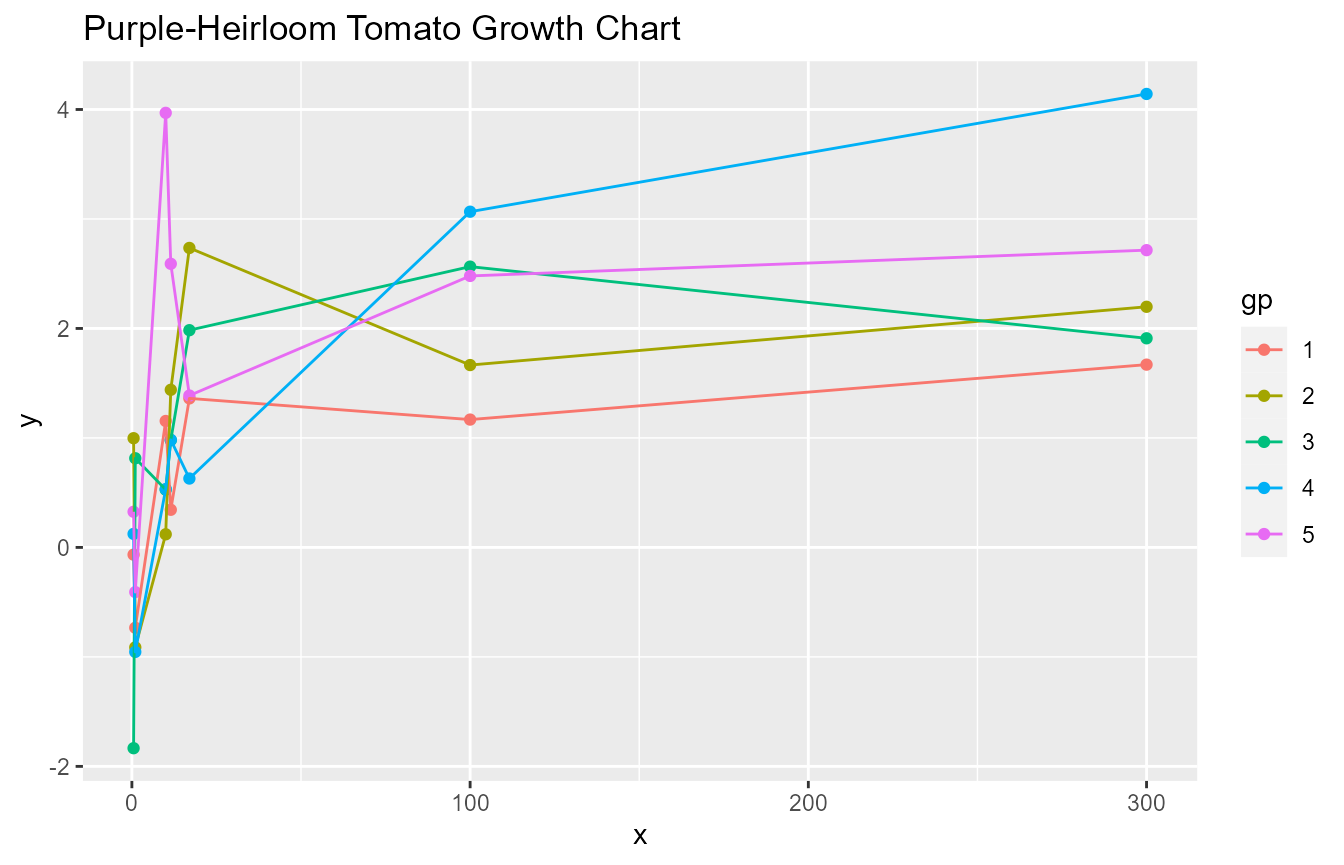
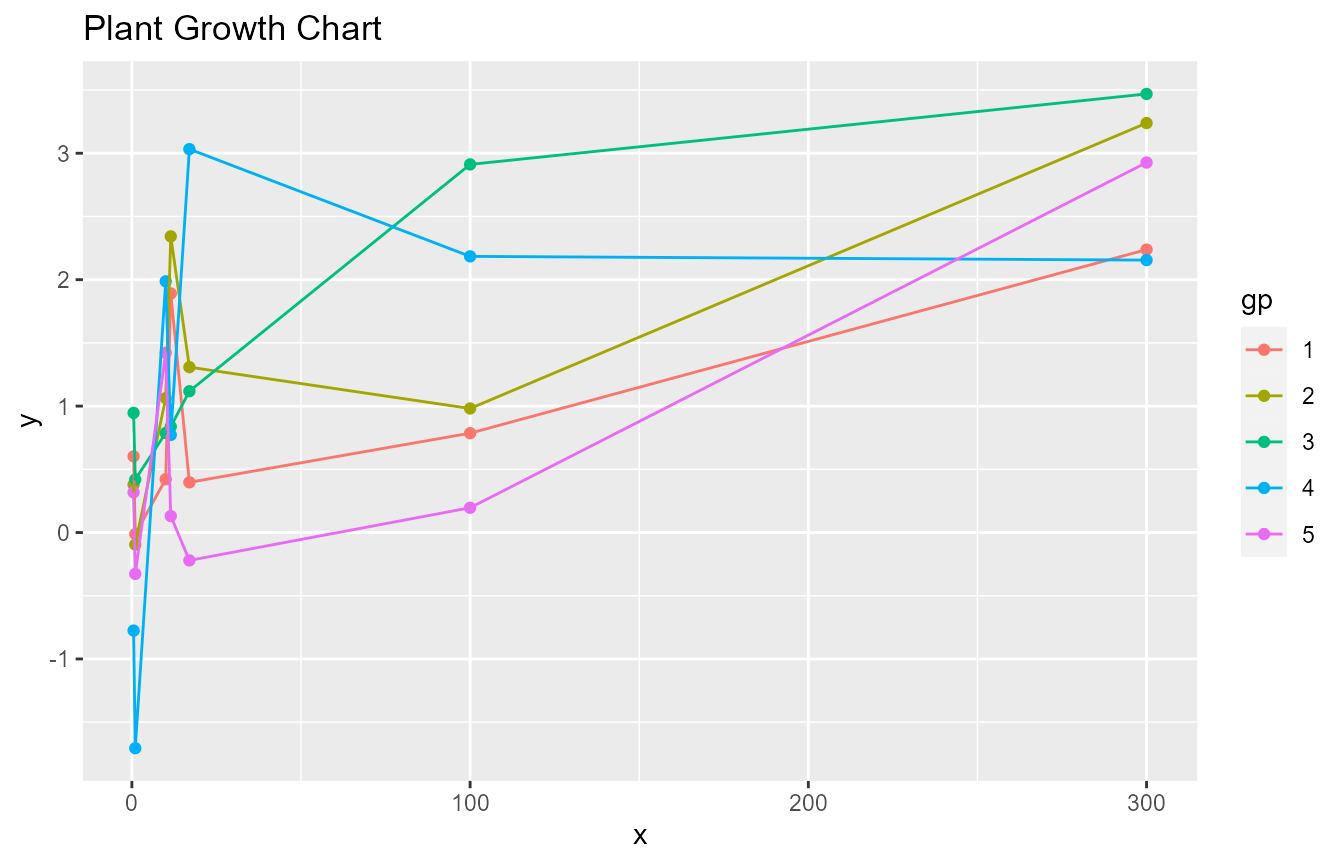
v0.1.6

diff --git a/docs/articles/vignette_mtb_axis.html b/docs/articles/vignette_mtb_axis.html
@@ -26,7 +26,7 @@
     
     <a class="navbar-brand me-2" href="../index.html">mtb</a>
 
-    <small class="nav-text text-muted me-auto" data-bs-toggle="tooltip" data-bs-placement="bottom" title="">0.1.5</small>
+    <small class="nav-text text-muted me-auto" data-bs-toggle="tooltip" data-bs-placement="bottom" title="">0.1.6</small>
 
     
     <button class="navbar-toggler" type="button" data-bs-toggle="collapse" data-bs-target="#navbar" aria-controls="navbar" aria-expanded="false" aria-label="Toggle navigation">
@@ -74,7 +74,7 @@
       <img src="" class="logo" alt=""><h1>vignette_mtb_axis</h1>
                         <h4 data-toc-skip class="author">Y. Hsu</h4>
             
-            <h4 data-toc-skip class="date">2022-01-09</h4>
+            <h4 data-toc-skip class="date">2022-02-04</h4>
       
       <small class="dont-index">Source: <a href="https://github.com/yh202109/mtb/blob/HEAD/vignettes/vignette_mtb_axis.Rmd" class="external-link"><code>vignettes/vignette_mtb_axis.Rmd</code></a></small>
       <div class="d-none name"><code>vignette_mtb_axis.Rmd</code></div>
@@ -87,7 +87,8 @@
 </h2>
 <p>For continuous <span class="math inline">\(x\)</span> values, the common options for the <span class="math inline">\(x\)</span>-axis scale could be either linear or log. Assume that the <span class="math inline">\(x\)</span> vector has a smaller number of distinct values. Some of those <span class="math inline">\(x\)</span> values could be clustered tightly while others are far away from the cluster. In such case, the plot could have an area that is overfilled and have other areas that are underused.</p>
 <p>The function <code><a href="../reference/trans_composition.html">trans_composition()</a></code> yields linear scale for <span class="math inline">\(x\)</span>-axis below a breaking point. All unique <span class="math inline">\(x\)</span> values above the breaking point will be plotted in equal spaces in between. The function <code><a href="../reference/trans_loglinear.html">trans_loglinear()</a></code> is based on an algorithm derived log transformation such that the <span class="math inline">\(x\)</span> values could be spaced out for easier interpreting.</p>
-<p><span style="color: rgba(255,0,0,1); margin: 3px auto 3px auto; font-size:100%">Caution - The use of nonlinear axis scale can be misleading. The use of transformed scales should be clearly noted in the text or on the figure to avoid misleading.</span></p>
+<p><span style="color: rgba(255,0,0,1); margin: 3px auto 3px auto; font-size:100%">Caution - The use of nonlinear axis scale can be DISTORTION and MISLEADING. The use of transformed scales should be **clearly noted** in the text or on the figure to avoid misleading.</span></p>
+<p>These transformations can work with <code><a href="https://ggplot2.tidyverse.org/reference/position_dodge.html" class="external-link">position_dodge()</a></code> and other adjustments.</p>
 </div>
 <div class="section level2">
 <h2 id="how-to-use">How to use<a class="anchor" aria-label="anchor" href="#how-to-use"></a>
@@ -99,23 +100,37 @@
 <span class="va">pdt</span><span class="op">=</span><span class="fu"><a href="https://rdrr.io/r/base/data.frame.html" class="external-link">data.frame</a></span><span class="op">(</span>x<span class="op">=</span><span class="fu"><a href="https://rdrr.io/r/base/rep.html" class="external-link">rep</a></span><span class="op">(</span><span class="fu"><a href="https://rdrr.io/r/base/c.html" class="external-link">c</a></span><span class="op">(</span><span class="fl">0.5</span>, <span class="fl">1</span>, <span class="fl">10</span>,<span class="fl">11.5</span>,<span class="fl">17</span>, <span class="fl">100</span>, <span class="fl">300</span><span class="op">)</span>, each<span class="op">=</span><span class="fl">5</span><span class="op">)</span>, gp<span class="op">=</span><span class="fu"><a href="https://rdrr.io/r/base/factor.html" class="external-link">factor</a></span><span class="op">(</span><span class="fu"><a href="https://rdrr.io/r/base/rep.html" class="external-link">rep</a></span><span class="op">(</span><span class="fu"><a href="https://rdrr.io/r/base/seq.html" class="external-link">seq</a></span><span class="op">(</span><span class="fl">1</span>,<span class="fl">5</span><span class="op">)</span>,<span class="fl">7</span><span class="op">)</span><span class="op">)</span><span class="op">)</span>
 <span class="va">pdt</span><span class="op">$</span><span class="va">y</span><span class="op">=</span><span class="fu"><a href="https://rdrr.io/r/base/Log.html" class="external-link">log10</a></span><span class="op">(</span><span class="va">pdt</span><span class="op">$</span><span class="va">x</span><span class="op">)</span><span class="op">+</span><span class="fu"><a href="https://rdrr.io/r/stats/Normal.html" class="external-link">rnorm</a></span><span class="op">(</span><span class="fu"><a href="https://rdrr.io/r/base/length.html" class="external-link">length</a></span><span class="op">(</span><span class="va">pdt</span><span class="op">$</span><span class="va">x</span><span class="op">)</span><span class="op">)</span>
 <span class="va">p</span><span class="op">=</span><span class="fu"><a href="https://ggplot2.tidyverse.org/reference/ggplot.html" class="external-link">ggplot</a></span><span class="op">(</span><span class="va">pdt</span>, <span class="fu"><a href="https://ggplot2.tidyverse.org/reference/aes.html" class="external-link">aes</a></span><span class="op">(</span>x<span class="op">=</span><span class="va">x</span>, y<span class="op">=</span><span class="va">y</span>, group<span class="op">=</span><span class="va">gp</span>, color<span class="op">=</span><span class="va">gp</span><span class="op">)</span><span class="op">)</span><span class="op">+</span><span class="fu"><a href="https://ggplot2.tidyverse.org/reference/geom_point.html" class="external-link">geom_point</a></span><span class="op">(</span><span class="op">)</span><span class="op">+</span><span class="fu"><a href="https://ggplot2.tidyverse.org/reference/geom_path.html" class="external-link">geom_line</a></span><span class="op">(</span><span class="op">)</span><span class="op">+</span>
-  <span class="fu"><a href="https://ggplot2.tidyverse.org/reference/labs.html" class="external-link">ggtitle</a></span><span class="op">(</span><span class="st">"Purple-Heirloom Tomato Growth Chart"</span><span class="op">)</span>
+  <span class="fu"><a href="https://ggplot2.tidyverse.org/reference/labs.html" class="external-link">ggtitle</a></span><span class="op">(</span><span class="st">"Plant Growth Chart"</span><span class="op">)</span>
 <span class="va">p</span></code></pre></div>
 <p><img src="vignette_mtb_axis_files/figure-html/unnamed-chunk-2-1.png" width="672" style="display: block; margin: auto;"></p>
-<p>Below is an example that shows how to use <code><a href="../reference/trans_composition.html">trans_composition()</a></code> with break point set as 50. Distinct <span class="math inline">\(x\)</span> values above 50 are plotted with equal spaces in between.</p>
+<p>Below is an example that shows how to use <code><a href="../reference/trans_composition.html">trans_composition()</a></code> with break point set as 50. Distinct <span class="math inline">\(x\)</span> values above 50 are plotted with equal spaces in between. While using non-linear transformed X-axis, it gives a distort sense regarding distances between the last two measured time points. In addition to that, the long distance between the last three <span class="math inline">\(x\)</span> values makes the linear connections between observations less certain, but the connections are still needed to identify individual groups. The example below used dashed line above x=17 to have clearer indication of the change of scales.</p>
 <div class="sourceCode" id="cb2"><pre class="downlit sourceCode r">
-<code class="sourceCode R"><span class="va">t</span><span class="op">=</span><span class="fu"><a href="../reference/trans_composition.html">trans_composition</a></span><span class="op">(</span><span class="va">pdt</span><span class="op">$</span><span class="va">x</span>, nb<span class="op">=</span><span class="fl">30</span>, brk<span class="op">=</span><span class="fl">50</span>, dab<span class="op">=</span><span class="fl">2</span>, dgrd<span class="op">=</span><span class="fl">1</span>, dgrd2<span class="op">=</span><span class="fl">0.2</span><span class="op">)</span> 
-<span class="va">p</span><span class="op">+</span> <span class="fu"><a href="https://ggplot2.tidyverse.org/reference/scale_continuous.html" class="external-link">scale_x_continuous</a></span><span class="op">(</span>trans<span class="op">=</span><span class="va">t</span><span class="op">)</span><span class="op">+</span> <span class="fu"><a href="https://ggplot2.tidyverse.org/reference/geom_abline.html" class="external-link">geom_vline</a></span><span class="op">(</span>xintercept<span class="op">=</span><span class="va">t</span><span class="op">$</span><span class="va">brk</span>, lwd<span class="op">=</span><span class="fl">6</span>, alpha<span class="op">=</span><span class="fl">0.5</span>, color<span class="op">=</span><span class="st">'lightgray'</span><span class="op">)</span><span class="op">+</span> <span class="fu"><a href="https://ggplot2.tidyverse.org/reference/geom_text.html" class="external-link">geom_text</a></span><span class="op">(</span> x<span class="op">=</span><span class="op">-</span><span class="cn">Inf</span>, y<span class="op">=</span><span class="cn">Inf</span>, hjust<span class="op">=</span><span class="fl">0</span>, vjust<span class="op">=</span><span class="fl">1</span>, label<span class="op">=</span><span class="st">'Caution: X-axis scale is not linear above 50'</span>, color<span class="op">=</span><span class="st">'darkred'</span><span class="op">)</span></code></pre></div>
-<p><img src="vignette_mtb_axis_files/figure-html/unnamed-chunk-3-1.png" width="672" style="display: block; margin: auto;"> Below is another example that shows how to use <code><a href="../reference/trans_composition.html">trans_composition()</a></code> with break point set as 0. In this example, all <span class="math inline">\(x\)</span> values are plotted with equal spaces in between.</p>
+<code class="sourceCode R"><span class="va">t</span><span class="op">=</span><span class="fu"><a href="../reference/trans_composition.html">trans_composition</a></span><span class="op">(</span><span class="va">pdt</span><span class="op">$</span><span class="va">x</span>, nb<span class="op">=</span><span class="fl">30</span>, brk<span class="op">=</span><span class="fl">50</span>, dab<span class="op">=</span><span class="fl">1.5</span>, dgrd<span class="op">=</span><span class="fl">1</span>, dgrd2<span class="op">=</span><span class="fl">0.5</span><span class="op">)</span> 
+<span class="va">p2</span><span class="op">=</span><span class="fu"><a href="https://ggplot2.tidyverse.org/reference/ggplot.html" class="external-link">ggplot</a></span><span class="op">(</span><span class="va">pdt</span>, <span class="fu"><a href="https://ggplot2.tidyverse.org/reference/aes.html" class="external-link">aes</a></span><span class="op">(</span>x<span class="op">=</span><span class="va">x</span>, y<span class="op">=</span><span class="va">y</span>, group<span class="op">=</span><span class="va">gp</span>, color<span class="op">=</span><span class="va">gp</span><span class="op">)</span><span class="op">)</span><span class="op">+</span><span class="fu"><a href="https://ggplot2.tidyverse.org/reference/geom_point.html" class="external-link">geom_point</a></span><span class="op">(</span><span class="op">)</span><span class="op">+</span>
+  <span class="fu"><a href="https://ggplot2.tidyverse.org/reference/geom_path.html" class="external-link">geom_line</a></span><span class="op">(</span><span class="va">pdt</span><span class="op">[</span><span class="va">pdt</span><span class="op">$</span><span class="va">x</span><span class="op">&lt;=</span><span class="va">t</span><span class="op">$</span><span class="va">brk</span>,<span class="op">]</span>, mapping<span class="op">=</span><span class="fu"><a href="https://ggplot2.tidyverse.org/reference/aes.html" class="external-link">aes</a></span><span class="op">(</span>x<span class="op">=</span><span class="va">x</span>, y<span class="op">=</span><span class="va">y</span>, group<span class="op">=</span><span class="va">gp</span>, color<span class="op">=</span><span class="va">gp</span><span class="op">)</span><span class="op">)</span><span class="op">+</span>
+  <span class="fu"><a href="https://ggplot2.tidyverse.org/reference/geom_path.html" class="external-link">geom_line</a></span><span class="op">(</span><span class="va">pdt</span><span class="op">[</span><span class="va">pdt</span><span class="op">$</span><span class="va">x</span><span class="op">&gt;=</span><span class="fu"><a href="https://rdrr.io/r/base/Extremes.html" class="external-link">max</a></span><span class="op">(</span><span class="va">pdt</span><span class="op">$</span><span class="va">x</span><span class="op">&lt;=</span><span class="va">t</span><span class="op">$</span><span class="va">brk</span><span class="op">)</span>,<span class="op">]</span>, mapping<span class="op">=</span><span class="fu"><a href="https://ggplot2.tidyverse.org/reference/aes.html" class="external-link">aes</a></span><span class="op">(</span>x<span class="op">=</span><span class="va">x</span>, y<span class="op">=</span><span class="va">y</span>, group<span class="op">=</span><span class="va">gp</span>, color<span class="op">=</span><span class="va">gp</span><span class="op">)</span>, lty<span class="op">=</span><span class="fl">2</span><span class="op">)</span><span class="op">+</span>
+  <span class="fu"><a href="https://ggplot2.tidyverse.org/reference/labs.html" class="external-link">ggtitle</a></span><span class="op">(</span><span class="st">"Plant Growth Chart"</span><span class="op">)</span>
+<span class="va">p2</span><span class="op">+</span> <span class="fu"><a href="https://ggplot2.tidyverse.org/reference/scale_continuous.html" class="external-link">scale_x_continuous</a></span><span class="op">(</span>trans<span class="op">=</span><span class="va">t</span><span class="op">)</span><span class="op">+</span> <span class="fu"><a href="https://ggplot2.tidyverse.org/reference/geom_abline.html" class="external-link">geom_vline</a></span><span class="op">(</span>xintercept<span class="op">=</span><span class="va">t</span><span class="op">$</span><span class="va">brk</span>, lwd<span class="op">=</span><span class="fl">6</span>, alpha<span class="op">=</span><span class="fl">0.7</span>, color<span class="op">=</span><span class="st">'lightgray'</span><span class="op">)</span><span class="op">+</span> <span class="fu"><a href="https://ggplot2.tidyverse.org/reference/geom_text.html" class="external-link">geom_text</a></span><span class="op">(</span> x<span class="op">=</span><span class="op">-</span><span class="cn">Inf</span>, y<span class="op">=</span><span class="cn">Inf</span>, hjust<span class="op">=</span><span class="fl">0</span>, vjust<span class="op">=</span><span class="fl">1</span>, label<span class="op">=</span><span class="st">'Caution: X-axis scale is not linear above 17'</span>, color<span class="op">=</span><span class="st">'darkred'</span><span class="op">)</span></code></pre></div>
+<p><img src="vignette_mtb_axis_files/figure-html/unnamed-chunk-3-1.png" width="672" style="display: block; margin: auto;"></p>
+<p>Below is another example that shows how to use <code><a href="../reference/trans_composition.html">trans_composition()</a></code> with break point set as 0. In this example, all <span class="math inline">\(x\)</span> values are plotted with equal spaces in between.</p>
 <div class="sourceCode" id="cb3"><pre class="downlit sourceCode r">
 <code class="sourceCode R"><span class="va">t</span><span class="op">=</span><span class="fu"><a href="../reference/trans_composition.html">trans_composition</a></span><span class="op">(</span><span class="va">pdt</span><span class="op">$</span><span class="va">x</span>, nb<span class="op">=</span><span class="fl">30</span>, brk<span class="op">=</span><span class="fl">0</span>, dab<span class="op">=</span><span class="fl">2</span>, dgrd<span class="op">=</span><span class="fl">1</span>, dgrd2<span class="op">=</span><span class="fl">1</span><span class="op">)</span> 
-<span class="va">p</span><span class="op">+</span> <span class="fu"><a href="https://ggplot2.tidyverse.org/reference/scale_continuous.html" class="external-link">scale_x_continuous</a></span><span class="op">(</span>trans<span class="op">=</span><span class="va">t</span><span class="op">)</span><span class="op">+</span><span class="fu"><a href="https://ggplot2.tidyverse.org/reference/geom_text.html" class="external-link">geom_text</a></span><span class="op">(</span> x<span class="op">=</span><span class="op">-</span><span class="cn">Inf</span>, y<span class="op">=</span><span class="cn">Inf</span>, hjust<span class="op">=</span><span class="fl">0</span>, vjust<span class="op">=</span><span class="fl">1</span>, label<span class="op">=</span><span class="st">'Caution: X-axis scale is not linear'</span>, color<span class="op">=</span><span class="st">'darkred'</span><span class="op">)</span></code></pre></div>
-<p><img src="vignette_mtb_axis_files/figure-html/unnamed-chunk-4-1.png" width="672" style="display: block; margin: auto;"> Below is an example that shows how to use <code><a href="../reference/trans_loglinear.html">trans_loglinear()</a></code>. The <code><a href="../reference/trans_loglinear.html">trans_loglinear()</a></code> transformation increases spaces between smaller x values and that might be only appropriate in certain situations.</p>
+<span class="va">p3</span><span class="op">=</span><span class="fu"><a href="https://ggplot2.tidyverse.org/reference/ggplot.html" class="external-link">ggplot</a></span><span class="op">(</span><span class="va">pdt</span>, <span class="fu"><a href="https://ggplot2.tidyverse.org/reference/aes.html" class="external-link">aes</a></span><span class="op">(</span>x<span class="op">=</span><span class="va">x</span>, y<span class="op">=</span><span class="va">y</span>, group<span class="op">=</span><span class="va">gp</span>, color<span class="op">=</span><span class="va">gp</span><span class="op">)</span><span class="op">)</span><span class="op">+</span><span class="fu"><a href="https://ggplot2.tidyverse.org/reference/geom_point.html" class="external-link">geom_point</a></span><span class="op">(</span><span class="op">)</span><span class="op">+</span>
+  <span class="fu"><a href="https://ggplot2.tidyverse.org/reference/geom_path.html" class="external-link">geom_line</a></span><span class="op">(</span>lty<span class="op">=</span><span class="fl">2</span><span class="op">)</span><span class="op">+</span> <span class="fu"><a href="https://ggplot2.tidyverse.org/reference/labs.html" class="external-link">ggtitle</a></span><span class="op">(</span><span class="st">"Plant Growth Chart"</span><span class="op">)</span>
+<span class="va">p3</span><span class="op">+</span> <span class="fu"><a href="https://ggplot2.tidyverse.org/reference/scale_continuous.html" class="external-link">scale_x_continuous</a></span><span class="op">(</span>trans<span class="op">=</span><span class="va">t</span><span class="op">)</span><span class="op">+</span><span class="fu"><a href="https://ggplot2.tidyverse.org/reference/geom_text.html" class="external-link">geom_text</a></span><span class="op">(</span> x<span class="op">=</span><span class="op">-</span><span class="cn">Inf</span>, y<span class="op">=</span><span class="cn">Inf</span>, hjust<span class="op">=</span><span class="fl">0</span>, vjust<span class="op">=</span><span class="fl">1</span>, label<span class="op">=</span><span class="st">'Caution: X-axis scale is not linear'</span>, color<span class="op">=</span><span class="st">'darkred'</span><span class="op">)</span></code></pre></div>
+<p><img src="vignette_mtb_axis_files/figure-html/unnamed-chunk-4-1.png" width="672" style="display: block; margin: auto;"></p>
+<div class="section level3">
+<h3 id="danger-zone---please-use-responsibly">Danger Zone - Please Use Responsibly<a class="anchor" aria-label="anchor" href="#danger-zone---please-use-responsibly"></a>
+</h3>
+<p>Below is an example that shows how to use <code><a href="../reference/trans_loglinear.html">trans_loglinear()</a></code>. The <code><a href="../reference/trans_loglinear.html">trans_loglinear()</a></code> transformation increases spaces between smaller x values and that might be only appropriate in certain situations.</p>
 <div class="sourceCode" id="cb4"><pre class="downlit sourceCode r">
 <code class="sourceCode R"><span class="va">t</span><span class="op">=</span><span class="fu"><a href="../reference/trans_loglinear.html">trans_loglinear</a></span><span class="op">(</span><span class="va">pdt</span><span class="op">$</span><span class="va">x</span>, mindist<span class="op">=</span><span class="fl">0.03</span><span class="op">)</span> 
-<span class="va">p</span><span class="op">+</span> <span class="fu"><a href="https://ggplot2.tidyverse.org/reference/scale_continuous.html" class="external-link">scale_x_continuous</a></span><span class="op">(</span>trans<span class="op">=</span><span class="va">t</span><span class="op">)</span><span class="op">+</span><span class="fu"><a href="https://ggplot2.tidyverse.org/reference/geom_text.html" class="external-link">geom_text</a></span><span class="op">(</span> x<span class="op">=</span><span class="op">-</span><span class="cn">Inf</span>, y<span class="op">=</span><span class="cn">Inf</span>, hjust<span class="op">=</span><span class="fl">0</span>, vjust<span class="op">=</span><span class="fl">1</span>, label<span class="op">=</span><span class="st">'Caution: X-axis scale is not linear'</span>, color<span class="op">=</span><span class="st">'darkred'</span><span class="op">)</span></code></pre></div>
+<span class="va">p4</span><span class="op">=</span><span class="fu"><a href="https://ggplot2.tidyverse.org/reference/ggplot.html" class="external-link">ggplot</a></span><span class="op">(</span><span class="va">pdt</span>, <span class="fu"><a href="https://ggplot2.tidyverse.org/reference/aes.html" class="external-link">aes</a></span><span class="op">(</span>x<span class="op">=</span><span class="va">x</span>, y<span class="op">=</span><span class="va">y</span>, group<span class="op">=</span><span class="va">gp</span>, color<span class="op">=</span><span class="va">gp</span><span class="op">)</span><span class="op">)</span><span class="op">+</span><span class="fu"><a href="https://ggplot2.tidyverse.org/reference/geom_point.html" class="external-link">geom_point</a></span><span class="op">(</span><span class="op">)</span><span class="op">+</span>
+  <span class="fu"><a href="https://ggplot2.tidyverse.org/reference/geom_path.html" class="external-link">geom_line</a></span><span class="op">(</span>lty<span class="op">=</span><span class="fl">3</span><span class="op">)</span><span class="op">+</span> <span class="fu"><a href="https://ggplot2.tidyverse.org/reference/labs.html" class="external-link">ggtitle</a></span><span class="op">(</span><span class="st">"Plant Growth Chart"</span><span class="op">)</span>
+<span class="va">p4</span><span class="op">+</span> <span class="fu"><a href="https://ggplot2.tidyverse.org/reference/scale_continuous.html" class="external-link">scale_x_continuous</a></span><span class="op">(</span>trans<span class="op">=</span><span class="va">t</span><span class="op">)</span><span class="op">+</span><span class="fu"><a href="https://ggplot2.tidyverse.org/reference/geom_text.html" class="external-link">geom_text</a></span><span class="op">(</span> x<span class="op">=</span><span class="op">-</span><span class="cn">Inf</span>, y<span class="op">=</span><span class="cn">Inf</span>, hjust<span class="op">=</span><span class="fl">0</span>, vjust<span class="op">=</span><span class="fl">1</span>, label<span class="op">=</span><span class="st">'Caution: X-axis scale is not linear'</span>, color<span class="op">=</span><span class="st">'red'</span><span class="op">)</span></code></pre></div>
 <p><img src="vignette_mtb_axis_files/figure-html/unnamed-chunk-5-1.png" width="672" style="display: block; margin: auto;"></p>
-<p>These transformations can work with <code><a href="https://ggplot2.tidyverse.org/reference/position_dodge.html" class="external-link">position_dodge()</a></code> and other adjustments.</p>
+<p>In some line plots, a straight line between two points is used to indicate that these two points are observations corresponding to the same group. Those straight lines are not necessarily indicate or hint linear trends between points. Also note that, for plots based on log scales, a straight line on a log-scale plot is a convex curve on a linear-scale plot.</p>
+</div>
 </div>
   </main><aside class="col-md-3"><nav id="toc"><h2>On this page</h2>
     </nav></aside>

diff --git a/docs/news/index.html b/docs/news/index.html
@@ -10,7 +10,7 @@
     
     <a class="navbar-brand me-2" href="../index.html">mtb</a>
 
-    <small class="nav-text text-muted me-auto" data-bs-toggle="tooltip" data-bs-placement="bottom" title="">0.1.5</small>
+    <small class="nav-text text-muted me-auto" data-bs-toggle="tooltip" data-bs-placement="bottom" title="">0.1.6</small>
 
     
     <button class="navbar-toggler" type="button" data-bs-toggle="collapse" data-bs-target="#navbar" aria-controls="navbar" aria-expanded="false" aria-label="Toggle navigation">
@@ -54,10 +54,27 @@
     </div>
 
     <div class="section level2">
-<h2 class="pkg-version" data-toc-text="0.1.5" id="mtb-015">mtb 0.1.5<a class="anchor" aria-label="anchor" href="#mtb-015"></a></h2>
+<h2 class="pkg-version" data-toc-text="0.1.6" id="mtb-016-commit-tba">mtb 0.1.6 (commit <code>TBA</code>)<a class="anchor" aria-label="anchor" href="#mtb-016-commit-tba"></a></h2>
+<div class="section level3">
+<h3 id="major-changes-0-1-6">Major changes<a class="anchor" aria-label="anchor" href="#major-changes-0-1-6"></a></h3>
+<ul><li>axis - add demo to change line type in line plots with trans axis</li>
+<li>axis - add vignette to explain</li>
+</ul></div>
+</div>
+    <div class="section level2">
+<h2 class="pkg-version" data-toc-text="0.1.5" id="mtb-015-commit-5a99717">mtb 0.1.5 (commit <code>5a99717</code>)<a class="anchor" aria-label="anchor" href="#mtb-015-commit-5a99717"></a></h2>
 <div class="section level3">
 <h3 id="major-changes-0-1-5">Major changes<a class="anchor" aria-label="anchor" href="#major-changes-0-1-5"></a></h3>
-</div>
+<ul><li>pkg - Add site docs using <code>pkgdown</code>
+</li>
+<li>axis - Add loglinear transformation</li>
+<li>axis - Fix max unique values</li>
+<li>axis - Fix min loglinear value</li>
+<li>time - add event plot</li>
+<li>time - add compact option</li>
+<li>time - add end of interval options</li>
+<li>time - add color column</li>
+</ul></div>
 </div>
     <div class="section level2">
 <h2 class="pkg-version" data-toc-text="0.1.1" id="mtb-011-commit-42e8171">mtb 0.1.1 (commit <code>42e8171</code>)<a class="anchor" aria-label="anchor" href="#mtb-011-commit-42e8171"></a></h2><p class="text-muted">CRAN release: 2021-11-16</p>

diff --git a/docs/authors.html b/docs/authors.html
@@ -10,7 +10,7 @@
     
     <a class="navbar-brand me-2" href="index.html">mtb</a>
 
-    <small class="nav-text text-muted me-auto" data-bs-toggle="tooltip" data-bs-placement="bottom" title="">0.1.5</small>
+    <small class="nav-text text-muted me-auto" data-bs-toggle="tooltip" data-bs-placement="bottom" title="">0.1.6</small>
 
     
     <button class="navbar-toggler" type="button" data-bs-toggle="collapse" data-bs-target="#navbar" aria-controls="navbar" aria-expanded="false" aria-label="Toggle navigation">
@@ -67,13 +67,13 @@
 
       <p>Hsu Y (2022).
 <em>mtb: Toolkit for Assisting Kitchen and Garden Projects</em>.
-R package version 0.1.5, <a href="https://github.com/yh202109/mtb" class="external-link">https://github.com/yh202109/mtb</a>. 
+R package version 0.1.6, <a href="https://github.com/yh202109/mtb" class="external-link">https://github.com/yh202109/mtb</a>. 
 </p>
       <pre>@Manual{,
   title = {mtb: Toolkit for Assisting Kitchen and Garden Projects},
   author = {Y Hsu},
   year = {2022},
-  note = {R package version 0.1.5},
+  note = {R package version 0.1.6},
   url = {https://github.com/yh202109/mtb},
 }</pre>
     </div>

diff --git a/docs/articles/vignette_mtb_timerelated.html b/docs/articles/vignette_mtb_timerelated.html
@@ -26,7 +26,7 @@
     
     <a class="navbar-brand me-2" href="../index.html">mtb</a>
 
-    <small class="nav-text text-muted me-auto" data-bs-toggle="tooltip" data-bs-placement="bottom" title="">0.1.5</small>
+    <small class="nav-text text-muted me-auto" data-bs-toggle="tooltip" data-bs-placement="bottom" title="">0.1.6</small>
 
     
     <button class="navbar-toggler" type="button" data-bs-toggle="collapse" data-bs-target="#navbar" aria-controls="navbar" aria-expanded="false" aria-label="Toggle navigation">
@@ -74,7 +74,7 @@
       <img src="" class="logo" alt=""><h1>vignette_mtb_time_related</h1>
                         <h4 data-toc-skip class="author">Y. Hsu</h4>
             
-            <h4 data-toc-skip class="date">2022-01-09</h4>
+            <h4 data-toc-skip class="date">2022-02-04</h4>
       
       <small class="dont-index">Source: <a href="https://github.com/yh202109/mtb/blob/HEAD/vignettes/vignette_mtb_timerelated.Rmd" class="external-link"><code>vignettes/vignette_mtb_timerelated.Rmd</code></a></small>
       <div class="d-none name"><code>vignette_mtb_timerelated.Rmd</code></div>

diff --git a/docs/articles/vignette_mtb_color.html b/docs/articles/vignette_mtb_color.html
@@ -26,7 +26,7 @@
     
     <a class="navbar-brand me-2" href="../index.html">mtb</a>
 
-    <small class="nav-text text-muted me-auto" data-bs-toggle="tooltip" data-bs-placement="bottom" title="">0.1.5</small>
+    <small class="nav-text text-muted me-auto" data-bs-toggle="tooltip" data-bs-placement="bottom" title="">0.1.6</small>
 
     
     <button class="navbar-toggler" type="button" data-bs-toggle="collapse" data-bs-target="#navbar" aria-controls="navbar" aria-expanded="false" aria-label="Toggle navigation">
@@ -74,7 +74,7 @@
       <img src="" class="logo" alt=""><h1>vignette_mtb_color</h1>
                         <h4 data-toc-skip class="author">Y. Hsu</h4>
             
-            <h4 data-toc-skip class="date">2022-01-09</h4>
+            <h4 data-toc-skip class="date">2022-02-04</h4>
       
       <small class="dont-index">Source: <a href="https://github.com/yh202109/mtb/blob/HEAD/vignettes/vignette_mtb_color.Rmd" class="external-link"><code>vignettes/vignette_mtb_color.Rmd</code></a></small>
       <div class="d-none name"><code>vignette_mtb_color.Rmd</code></div>

diff --git a/docs/articles/vignette_mtb_md.html b/docs/articles/vignette_mtb_md.html
@@ -26,7 +26,7 @@
     
     <a class="navbar-brand me-2" href="../index.html">mtb</a>
 
-    <small class="nav-text text-muted me-auto" data-bs-toggle="tooltip" data-bs-placement="bottom" title="">0.1.5</small>
+    <small class="nav-text text-muted me-auto" data-bs-toggle="tooltip" data-bs-placement="bottom" title="">0.1.6</small>
 
     
     <button class="navbar-toggler" type="button" data-bs-toggle="collapse" data-bs-target="#navbar" aria-controls="navbar" aria-expanded="false" aria-label="Toggle navigation">
@@ -74,7 +74,7 @@
       <img src="" class="logo" alt=""><h1>vignette_mtb_markdown</h1>
                         <h4 data-toc-skip class="author">Y. Hsu</h4>
             
-            <h4 data-toc-skip class="date">2022-01-09</h4>
+            <h4 data-toc-skip class="date">2022-02-04</h4>
       
       <small class="dont-index">Source: <a href="https://github.com/yh202109/mtb/blob/HEAD/vignettes/vignette_mtb_md.Rmd" class="external-link"><code>vignettes/vignette_mtb_md.Rmd</code></a></small>
       <div class="d-none name"><code>vignette_mtb_md.Rmd</code></div>

diff --git a/docs/reference/add_colored_box.html b/docs/reference/add_colored_box.html
@@ -12,7 +12,7 @@ with specified color and styles."><!-- mathjax --><script src="https://cdnjs.clo
     
     <a class="navbar-brand me-2" href="../index.html">mtb</a>
 
-    <small class="nav-text text-muted me-auto" data-bs-toggle="tooltip" data-bs-placement="bottom" title="">0.1.5</small>
+    <small class="nav-text text-muted me-auto" data-bs-toggle="tooltip" data-bs-placement="bottom" title="">0.1.6</small>
 
     
     <button class="navbar-toggler" type="button" data-bs-toggle="collapse" data-bs-target="#navbar" aria-controls="navbar" aria-expanded="false" aria-label="Toggle navigation">

diff --git a/docs/reference/add_colored_str.html b/docs/reference/add_colored_str.html
@@ -12,7 +12,7 @@ with specified color and styles."><!-- mathjax --><script src="https://cdnjs.clo
     
     <a class="navbar-brand me-2" href="../index.html">mtb</a>
 
-    <small class="nav-text text-muted me-auto" data-bs-toggle="tooltip" data-bs-placement="bottom" title="">0.1.5</small>
+    <small class="nav-text text-muted me-auto" data-bs-toggle="tooltip" data-bs-placement="bottom" title="">0.1.6</small>
 
     
     <button class="navbar-toggler" type="button" data-bs-toggle="collapse" data-bs-target="#navbar" aria-controls="navbar" aria-expanded="false" aria-label="Toggle navigation">

diff --git a/docs/reference/trans_composition.html b/docs/reference/trans_composition.html
@@ -14,7 +14,7 @@ or ggplot::scale_y_continuous() to create a desired axis."><!-- mathjax --><scri
     
     <a class="navbar-brand me-2" href="../index.html">mtb</a>
 
-    <small class="nav-text text-muted me-auto" data-bs-toggle="tooltip" data-bs-placement="bottom" title="">0.1.5</small>
+    <small class="nav-text text-muted me-auto" data-bs-toggle="tooltip" data-bs-placement="bottom" title="">0.1.6</small>
 
     
     <button class="navbar-toggler" type="button" data-bs-toggle="collapse" data-bs-target="#navbar" aria-controls="navbar" aria-expanded="false" aria-label="Toggle navigation">

diff --git a/docs/reference/trans_loglinear.html b/docs/reference/trans_loglinear.html
@@ -14,7 +14,7 @@ or ggplot::scale_y_continuous() to create a desired axis."><!-- mathjax --><scri
     
     <a class="navbar-brand me-2" href="../index.html">mtb</a>
 
-    <small class="nav-text text-muted me-auto" data-bs-toggle="tooltip" data-bs-placement="bottom" title="">0.1.5</small>
+    <small class="nav-text text-muted me-auto" data-bs-toggle="tooltip" data-bs-placement="bottom" title="">0.1.6</small>
 
     
     <button class="navbar-toggler" type="button" data-bs-toggle="collapse" data-bs-target="#navbar" aria-controls="navbar" aria-expanded="false" aria-label="Toggle navigation">

diff --git a/docs/404.html b/docs/404.html
@@ -24,7 +24,7 @@
     
     <a class="navbar-brand me-2" href="https://yh202109.github.io/mtb/index.html">mtb</a>
 
-    <small class="nav-text text-muted me-auto" data-bs-toggle="tooltip" data-bs-placement="bottom" title="">0.1.5</small>
+    <small class="nav-text text-muted me-auto" data-bs-toggle="tooltip" data-bs-placement="bottom" title="">0.1.6</small>
 
     
     <button class="navbar-toggler" type="button" data-bs-toggle="collapse" data-bs-target="#navbar" aria-controls="navbar" aria-expanded="false" aria-label="Toggle navigation">

diff --git a/docs/articles/index.html b/docs/articles/index.html
@@ -10,7 +10,7 @@
     
     <a class="navbar-brand me-2" href="../index.html">mtb</a>
 
-    <small class="nav-text text-muted me-auto" data-bs-toggle="tooltip" data-bs-placement="bottom" title="">0.1.5</small>
+    <small class="nav-text text-muted me-auto" data-bs-toggle="tooltip" data-bs-placement="bottom" title="">0.1.6</small>
 
     
     <button class="navbar-toggler" type="button" data-bs-toggle="collapse" data-bs-target="#navbar" aria-controls="navbar" aria-expanded="false" aria-label="Toggle navigation">
